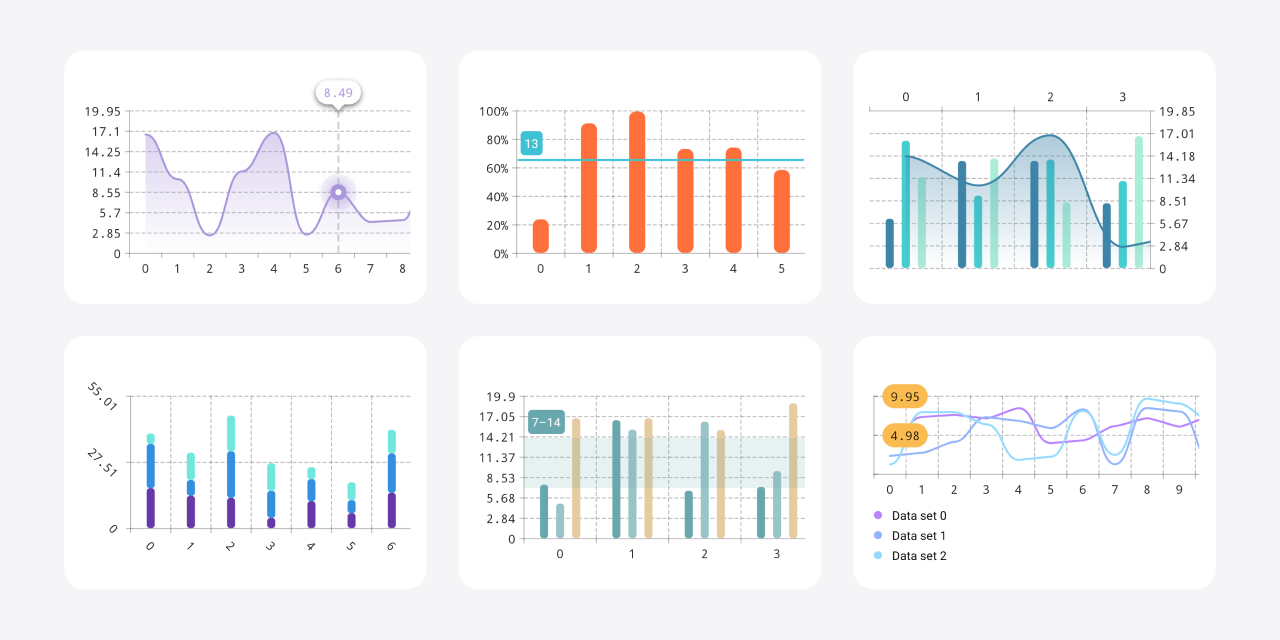
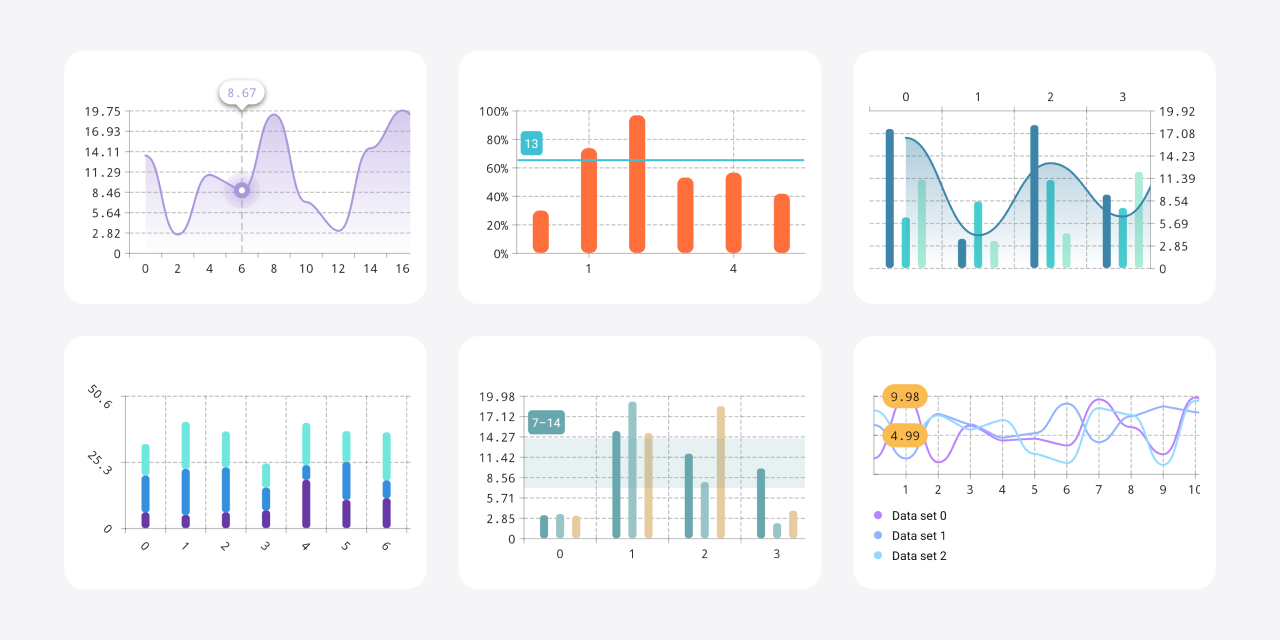
Update “Complex line chart“ sample chart & `cover.png`

diff --git a/sample/src/main/java/com/patrykandpatryk/vico/sample/chart/LineChartWithLabelsInside.kt b/sample/src/main/java/com/patrykandpatryk/vico/sample/chart/LineChartWithLabelsInside.kt
@@ -34,6 +34,7 @@ import com.patrykandpatryk.vico.compose.dimensions.dimensionsOf
 import com.patrykandpatryk.vico.compose.legend.verticalLegend
 import com.patrykandpatryk.vico.compose.legend.verticalLegendItem
 import com.patrykandpatryk.vico.core.axis.vertical.VerticalAxis
+import com.patrykandpatryk.vico.core.chart.line.LineChart
 import com.patrykandpatryk.vico.core.component.shape.Shapes
 import com.patrykandpatryk.vico.core.component.text.textComponent
 import com.patrykandpatryk.vico.core.entry.ChartEntryModelProducer
@@ -47,6 +48,7 @@ internal fun ComposeLineChartWithLabelsInside(
     modifier: Modifier = Modifier,
 ) {
     val lineChart = lineChart(
+        pointPosition = LineChart.PointPosition.Start,
         lines = entityColors.map { color ->
             lineSpec(
                 lineColor = Color(color),
